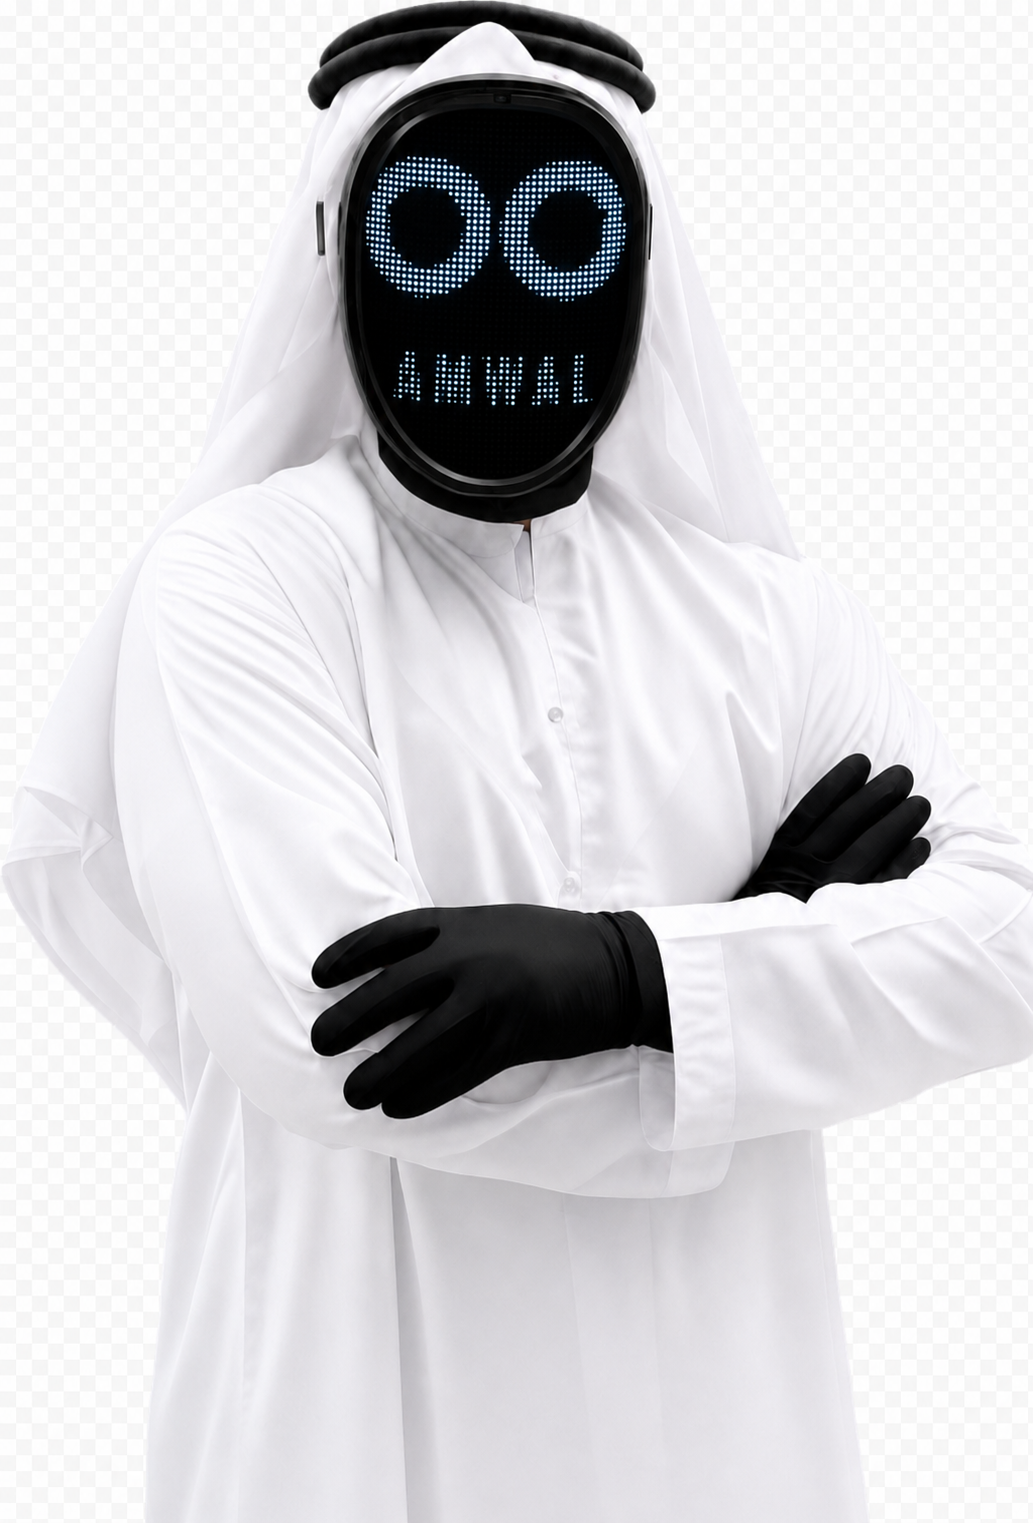
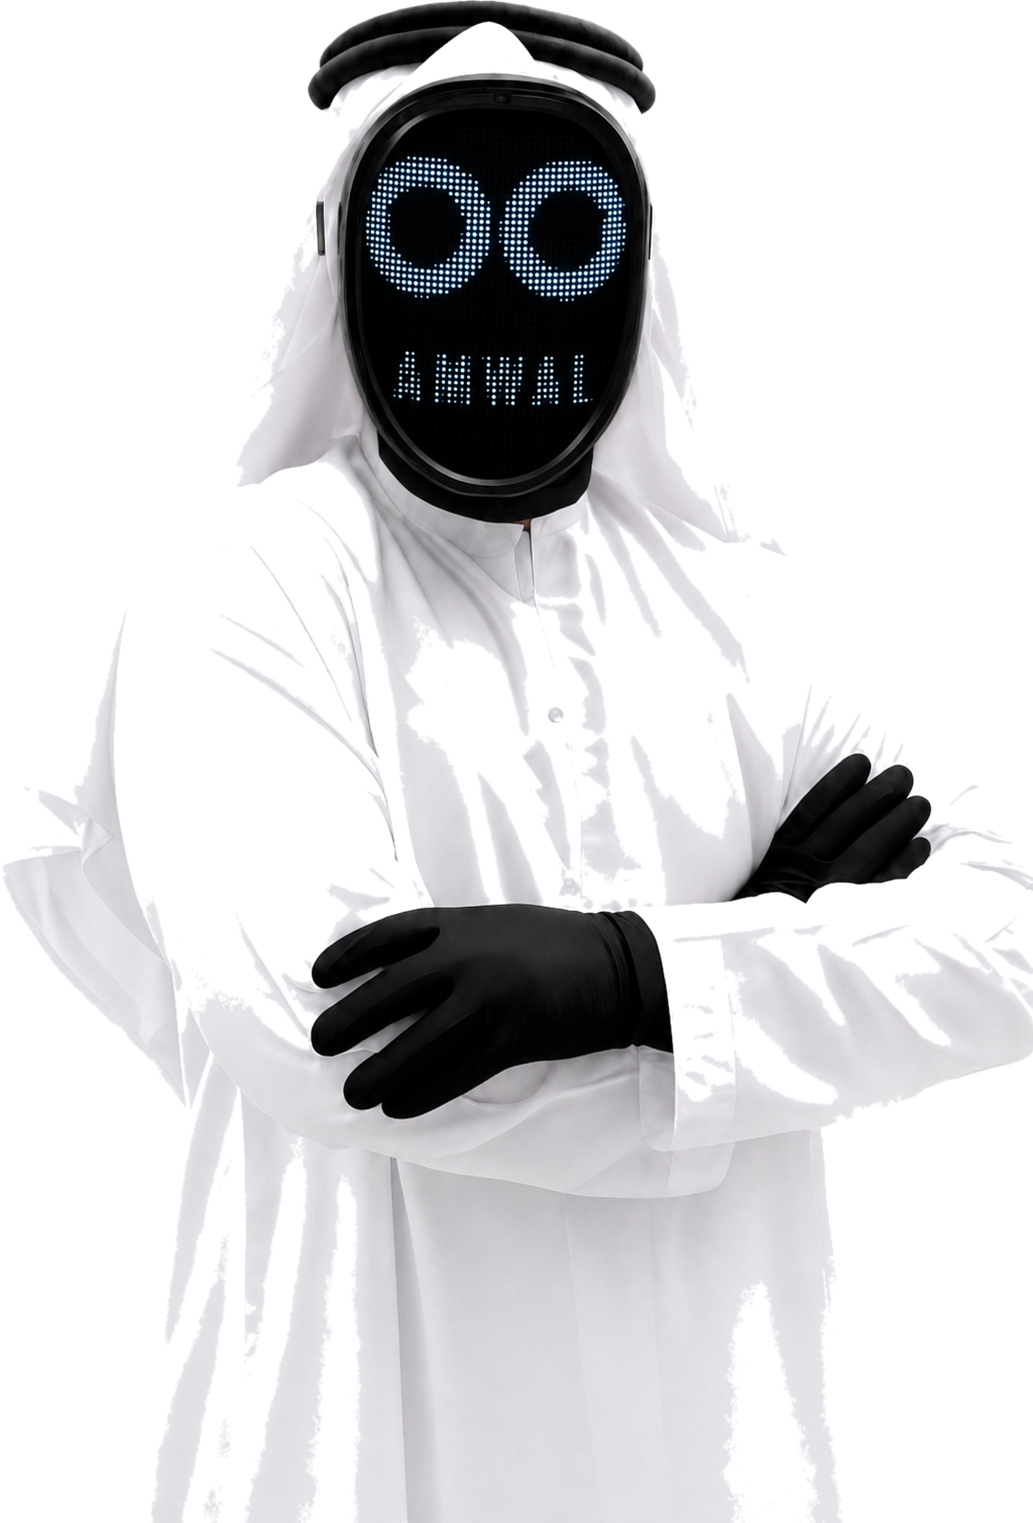
feat: proper bg removal + clear watermark opacity

diff --git a/src/app/globals.css b/src/app/globals.css
@@ -158,14 +158,13 @@ body {
   z-index: 0;
   pointer-events: none;
   user-select: none;
-  mix-blend-mode: multiply;
-  opacity: 0.18;
+  opacity: 0.55;
 }
 
 @media (max-width: 768px) {
   .brand-watermark {
     height: 60vh;
-    opacity: 0.10;
+    opacity: 0.30;
   }
 }
 
